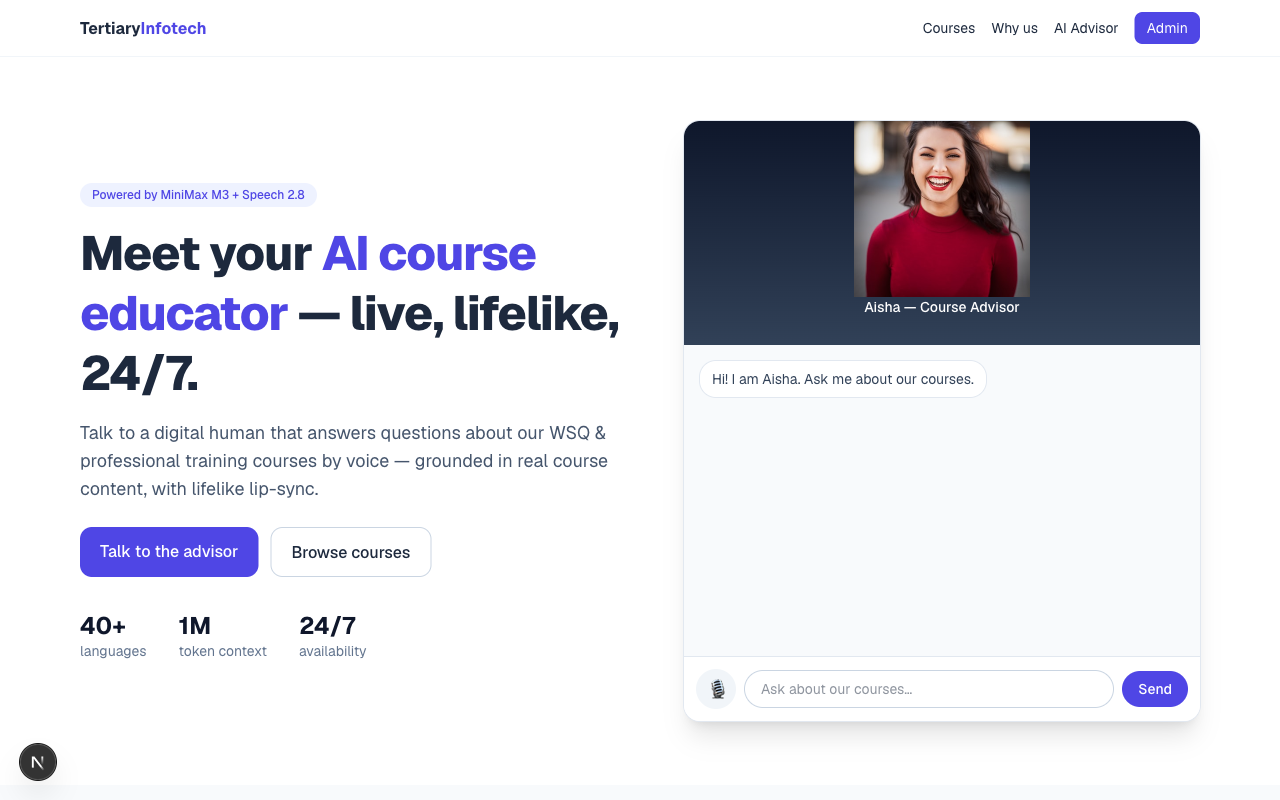
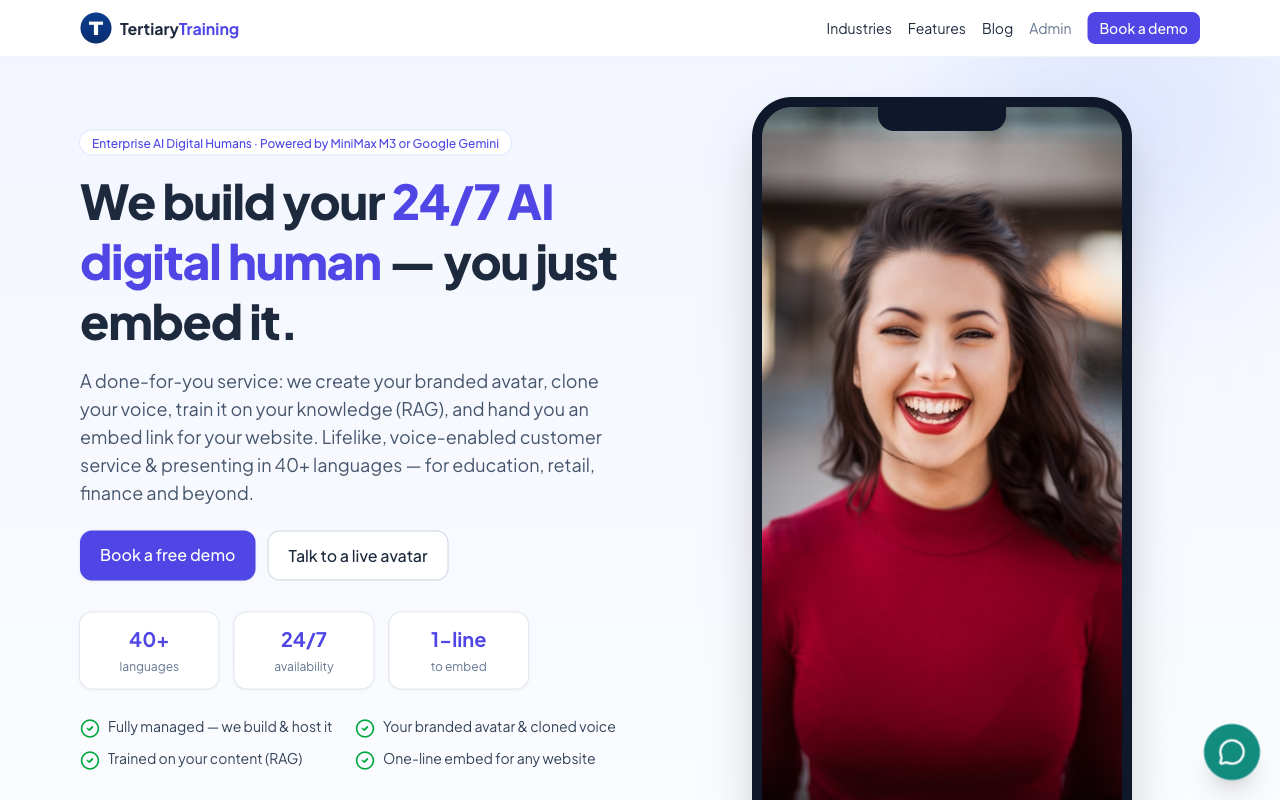
docs: refresh README + screenshot for the digital-human service; footer: Tertiary PEI link

diff --git a/src/components/SiteFooter.tsx b/src/components/SiteFooter.tsx
@@ -26,7 +26,7 @@ const NETWORK = [
   { name: "Tertiary Workplace Learning", href: "https://workplacelearning.tertiaryinfotech.com" },
   { name: "Tertiary LMS / TMS", href: "https://lms-tms.tertiaryinfotech.com" },
   { name: "Tertiary Kids (AI4Kids)", href: "https://ai4kids.tertiarycourses.com.sg" },
-  { name: "Tertiary IoT", href: "https://iot.tertiaryinfotech.com" },
+  { name: "Tertiary PEI", href: "https://www.tertiaryinfotech.edu.sg" },
   { name: "Tertiary Exams", href: "https://exams.tertiaryinfotech.com" },
   { name: "Tertiary HRMS", href: "https://hrms.tertiaryinfotech.com" },
   { name: "SSG API Portal", href: "https://ssgapi.tertiaryinfotech.com" },

diff --git a/README.md b/README.md
@@ -1,28 +1,39 @@
-# Tertiary Infotech — Digital Human Educator
+# Tertiary Training — AI Digital Human Service
 
-A one-page training-business website fronted by an **AI digital-human course educator**. Visitors talk (by voice or text) to a lifelike, lip-synced avatar that answers questions about courses — powered by **MiniMax M3** (dialogue) and **MiniMax Speech 2.8 Turbo** (voice), with turn-based lip-sync via **inference.sh**. Admins create avatars from a photo / webcam / short video, clone a voice, ground the avatar in course content, and embed the widget on any website.
+A marketing site **and** platform for a done-for-you **AI digital-human service**: we build a client's branded, voice-enabled avatar, clone their voice, train it on their content (RAG), and hand them a one-line **embed** for any website. Visitors talk to the avatar by **voice or text** and it answers out loud — 24/7, in 40+ languages — for customer service, sales and presenting across education, retail, finance, healthcare and more.
 
-![Tertiary Infotech Digital Human Educator — home screen](screenshot.png)
+🔗 **Live:** https://www.tertiarytraining.com
+
+![Tertiary Training — AI digital human service home screen](screenshot.png)
 
 ## Stack
 
-- **Next.js 16** (App Router) · React 19 · TypeScript · Tailwind v4
+- **Next.js 16** (App Router) · React 19 · TypeScript · Tailwind v4 · Plus Jakarta Sans · Lucide icons
 - **PostgreSQL** + **Prisma**
 - **Auth.js (NextAuth v5)** — credentials, role-based (`USER` / `ADMIN`)
-- **MiniMax** M3 (chat, OpenAI-compatible) + Speech 2.8 Turbo (TTS + voice clone)
-- **inference.sh** (OmniHuman / Fabric) for talking-head lip-sync — behind a swappable `AvatarRenderer` interface
-- S3-compatible storage (optional) with local-disk fallback
+- **LLM (swappable):** **MiniMax M3** *or* **Google Gemini** (admin-selectable, OpenAI-compatible)
+- **Voice:** **MiniMax Speech 2.8 Turbo** (TTS + voice cloning)
+- **Lip-sync:** **inference.sh** (OmniHuman / Fabric) behind a swappable `AvatarRenderer`
+- Email via SMTP (lead notifications); S3-compatible storage (optional) with local-disk fallback
+
+## Features
+
+- **Agentic voice chat** — `/api/chat` streams an SSE agent loop: ground on knowledge → M3/Gemini tool-calling (`lookup_course`, `book_consultation`, `escalate_to_human`) → TTS → lip-sync clip. Voice/video degrade gracefully to a browser voice + talking animation.
+- **Avatar studio** — create an avatar from a photo / webcam / short video, clone a voice, pick voice + language, add knowledge (RAG).
+- **Embeddable widget** — `public/embed.js` drops a floating avatar chat onto any site via a per-avatar embed key.
+- **Lead capture** — "Request a Digital Human demo" form (validation + honeypot) → stored to `/admin/leads`, emails the team + acknowledges the enquirer.
+- **Blog + CMS** — editable Pages (About/Contact/Privacy/Terms) and Blog posts (each a lead magnet) managed in `/admin`.
+- **WhatsApp** floating widget, marketing one-pager (industries, capabilities, service steps), SEO metadata + Organization JSON-LD.
+- **Hardened** — per-IP rate limits on public endpoints, zod input caps, encrypted admin-managed API keys.
 
 ## Architecture
 
 ```
-Browser (mic/cam) ──STT──▶ /api/chat (SSE) ──▶ agentic loop ──▶ MiniMax M3 (tool-calling)
+Browser (mic/cam) ──STT──▶ /api/chat (SSE) ──▶ agentic loop ──▶ MiniMax M3 / Gemini (tool-calling)
       ▲                                              │
       │  text + audio + video clip                   ├─▶ MiniMax Speech 2.8 (TTS / voice clone)
       └──────────────────────────────────────────────┴─▶ Avatar renderer (inference.sh)
 ```
-
-The **agentic loop** (`src/lib/agent/orchestrate.ts`): ground on course knowledge → reason with M3 (tools: `lookup_course`, `book_consultation`, `escalate_to_human`) → synthesize speech → render a talking clip. Voice and video are best-effort enhancements; the chat always returns text.
 
 ## Local development
 
@@ -34,45 +45,30 @@ npx prisma migrate dev        # create schema
 npm run dev                   # http://localhost:3000
 ```
 
-The **first account you register becomes ADMIN**. Then go to **/admin/settings** and enter your **MiniMax API key** (+ Group ID for TTS) and **inference.sh token**. Use **Test M3 connection** to verify.
-
-Create an avatar at **/admin/avatars/new** → upload/capture a portrait, (optionally) record a ~10s voice sample to clone, set the persona + course knowledge. Open the chat at `/chat/<id>` or grab the embed snippet.
+The **first account you register becomes ADMIN**. In **/admin/settings** choose the AI provider and enter the keys (MiniMax key + Group ID, and/or Gemini key; optional inference.sh token + SMTP). Then create an avatar at **/admin/avatars/new** and grab its embed snippet. Manage **Leads**, **Blog** and **Pages** from the admin nav.
 
 ## Embedding on any website
 
 ```html
-<script src="https://YOUR_APP/embed.js" data-avatar="EMBED_KEY" async></script>
+<script src="https://www.tertiarytraining.com/embed.js" data-avatar="EMBED_KEY" async></script>
 ```
 
-Optional attributes: `data-color="#4f46e5"`, `data-position="left|right"`. The embed key is shown on each avatar's admin page.
+Optional: `data-color="#4f46e5"`, `data-position="left|right"`. The embed key is on each avatar's admin page.
 
-## Deploy to Coolify
+## Deploy (Coolify)
 
-1. **New Resource → Docker Compose** (or Dockerfile) from this repo. Coolify builds the included `Dockerfile` (Next.js standalone).
-2. Add a **PostgreSQL** database in Coolify and point `DATABASE_URL` at it (or use the bundled `postgres` service in `docker-compose.yml`).
-3. Set environment variables:
+Builds the multi-stage `Dockerfile` (Next.js standalone). `docker-entrypoint.sh` runs `prisma migrate deploy` then starts the server; CMS pages + sample blog posts lazy-seed on first visit. Auto-deploys on push via a GitHub → Coolify webhook.
 
-   | Variable | Notes |
-   |---|---|
-   | `DATABASE_URL` | Postgres connection string |
-   | `NEXTAUTH_URL` | Public HTTPS URL of the app |
-   | `NEXTAUTH_SECRET` | `openssl rand -base64 32` |
-   | `ENCRYPTION_KEY` | `openssl rand -base64 32` (encrypts stored API keys) |
-   | `MINIMAX_API_KEY` / `MINIMAX_GROUP_ID` | optional — can be set in `/admin/settings` instead |
-   | `INFERENCE_SH_TOKEN` | optional — for lip-sync rendering |
-   | `S3_*` | optional — S3-compatible storage; omit to use the `uploads` volume |
+Required env: `DATABASE_URL`, `NEXTAUTH_URL`, `NEXTAUTH_SECRET`, `ENCRYPTION_KEY`. Optional: `MINIMAX_*` / `GEMINI_*`, `INFERENCE_SH_TOKEN`, `SMTP_*`, `S3_*` (all also settable in `/admin/settings`). Secrets are per-environment — re-enter the AI key in the deployed `/admin/settings` after first deploy.
 
-4. The container runs `prisma migrate deploy` on startup (see `docker-entrypoint.sh`), then starts the server. Persist `/app/public/uploads` with a volume if not using S3.
-5. Open the site, register the first (admin) account, fill in Settings, and create an avatar.
-
-> **Note on lip-sync:** rendering is turn-based (a short clip per reply, ~3–8s) so it runs on a GPU-less VPS. The `AvatarRenderer` interface (`src/lib/avatar/renderer.ts`) can be swapped for a self-hosted real-time engine (e.g. MuseTalk on a GPU box) later.
+> **Note:** this server fronts apps with a shared Traefik (entrypoints `web`/`websecure`, resolver `mytlschallenge`); the app's Coolify container labels are set to match. Lip-sync is turn-based and needs publicly reachable media (works deployed, not on localhost).
 
 ## Project layout
 
-- `src/lib/minimax/` — M3 chat + Speech 2.8 TTS/voice-clone clients
-- `src/lib/avatar/renderer.ts` — swappable lip-sync renderer (inference.sh)
+- `src/lib/minimax/` — M3/Gemini chat + Speech 2.8 TTS/voice-clone clients
 - `src/lib/agent/` — agentic orchestrator, tools, knowledge retrieval
-- `src/app/admin/` — settings + avatar studio (auth-guarded)
-- `src/components/ChatWidget.tsx` — voice chat UI (Web Speech STT, audio/video playback)
-- `src/app/api/chat/route.ts` — SSE endpoint streaming the agent loop
+- `src/lib/cms.ts` — editable Pages + Blog content (+ lazy seed)
+- `src/lib/avatar/renderer.ts` — swappable lip-sync renderer
+- `src/app/admin/` — settings, avatar studio, leads, blog, pages (auth-guarded)
+- `src/components/` — `ChatWidget`, `LeadForm`, `WhatsAppWidget`, `SiteFooter`, `PageFrame`
 - `public/embed.js` — embeddable widget loader
